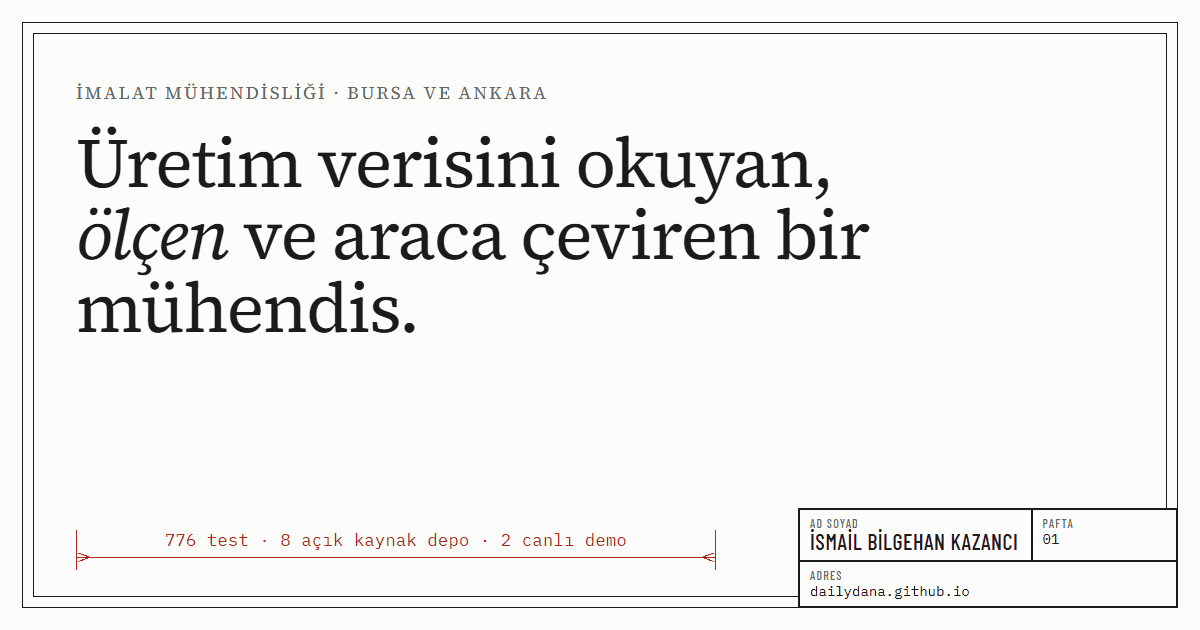
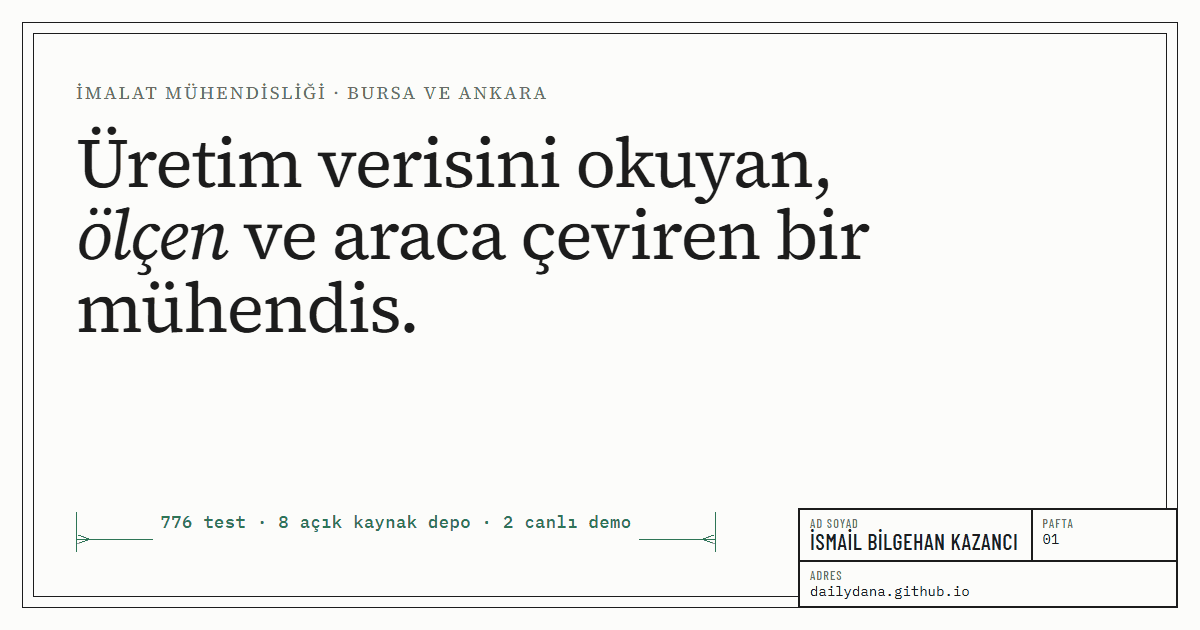
İlk ekran yeşil (--draft), CAD imleci; 404 ve Cpk uyarısı kırmızı kalıyor
Artı çizgileri, imleç çevresinde milimetrik ızgara, bölge+koordinat okuması ve kenar bölge etiketinin vurgulanması; yalnız fareli cihazlarda ve hareketi azalt kapalıyken. Favicon çizgisi ve OG görselleri yeşile uyarlandı.

diff --git a/assets/css/style.css b/assets/css/style.css
@@ -56,7 +56,8 @@
   --mute: #6B6B68;
   --line: rgba(28, 28, 28, .14);
   --line-strong: rgba(28, 28, 28, .75);
-  --accent: #C8102E;          /* teknik resim kırmızısı: yalnız hero'daki ölçü çizgisi */
+  --accent: #C8102E;          /* uyarı kırmızısı: 404 ve Cpk "yetersiz" */
+  --draft: #2E7556;           /* pafta çizim rengi: ilk ekrandaki ölçü çizgisi, eksenler, CAD imleci */
   --accent-ink: #FFFFFF;
   --accent-soft: rgba(200, 16, 46, .07);
   --link: #2F5D50;            /* editoryal vurgu: bağlantılar ve italik */
@@ -89,6 +90,7 @@
   --line: rgba(236, 234, 228, .14);
   --line-strong: rgba(236, 234, 228, .7);
   --accent: #F0707A;
+  --draft: #86C9AC;
   --accent-ink: #141414;
   --accent-soft: rgba(240, 112, 122, .1);
   --link: #8FC4B3;
@@ -220,18 +222,18 @@ code { font-family: var(--mono); font-size: .8em; }
 /* ölçü çizgisi */
 .dimline {
   position: relative; height: 34px; margin-bottom: 18px; max-width: 700px;
-  border-left: .75px solid var(--accent); border-right: .75px solid var(--accent);
-  color: var(--accent); font: 500 13px/1 var(--mono); letter-spacing: .5px;
+  border-left: .75px solid var(--draft); border-right: .75px solid var(--draft);
+  color: var(--draft); font: 500 13px/1 var(--mono); letter-spacing: .5px;
   display: flex; justify-content: center;
 }
-.dimline::before { content: ''; position: absolute; left: 0; right: 0; top: 22px; height: .75px; background: var(--accent); }
+.dimline::before { content: ''; position: absolute; left: 0; right: 0; top: 22px; height: .75px; background: var(--draft); }
 .dimline::after {
   content: ''; position: absolute; left: 0; right: 0; top: 18px; height: 9px;
   background:
-    linear-gradient(to top right, transparent 48%, var(--accent) 50%, var(--accent) 60%, transparent 62%) left top / 12px 4.5px no-repeat,
-    linear-gradient(to bottom right, transparent 48%, var(--accent) 50%, var(--accent) 60%, transparent 62%) left bottom / 12px 4.5px no-repeat,
-    linear-gradient(to top left, transparent 48%, var(--accent) 50%, var(--accent) 60%, transparent 62%) right top / 12px 4.5px no-repeat,
-    linear-gradient(to bottom left, transparent 48%, var(--accent) 50%, var(--accent) 60%, transparent 62%) right bottom / 12px 4.5px no-repeat;
+    linear-gradient(to top right, transparent 48%, var(--draft) 50%, var(--draft) 60%, transparent 62%) left top / 12px 4.5px no-repeat,
+    linear-gradient(to bottom right, transparent 48%, var(--draft) 50%, var(--draft) 60%, transparent 62%) left bottom / 12px 4.5px no-repeat,
+    linear-gradient(to top left, transparent 48%, var(--draft) 50%, var(--draft) 60%, transparent 62%) right top / 12px 4.5px no-repeat,
+    linear-gradient(to bottom left, transparent 48%, var(--draft) 50%, var(--draft) 60%, transparent 62%) right bottom / 12px 4.5px no-repeat;
 }
 .dimline span { position: relative; z-index: 1; background: var(--bg); padding: 0 8px; margin-top: 2px; white-space: nowrap; }
 /* görünüş (portre) */
@@ -239,13 +241,44 @@ code { font-family: var(--mono); font-size: .8em; }
 .view-frame { position: relative; aspect-ratio: 4 / 5; border: .75px solid var(--ink); background: var(--bg); overflow: hidden; }
 .view-frame img { position: absolute; inset: 0; width: 100%; height: 100%; object-fit: cover; }
 .view-ph { position: absolute; inset: 0; display: flex; align-items: center; justify-content: center; }
-.view-ph::before, .view-ph::after { content: ''; position: absolute; background: var(--accent); }
-.view-ph::before { left: 50%; top: 10%; bottom: 10%; width: 1px; background: repeating-linear-gradient(to bottom, var(--accent) 0 14px, transparent 14px 18px, var(--accent) 18px 20px, transparent 20px 24px); }
-.view-ph::after { top: 50%; left: 10%; right: 10%; height: 1px; background: repeating-linear-gradient(to right, var(--accent) 0 14px, transparent 14px 18px, var(--accent) 18px 20px, transparent 20px 24px); }
+.view-ph::before, .view-ph::after { content: ''; position: absolute; background: var(--draft); }
+.view-ph::before { left: 50%; top: 10%; bottom: 10%; width: 1px; background: repeating-linear-gradient(to bottom, var(--draft) 0 14px, transparent 14px 18px, var(--draft) 18px 20px, transparent 20px 24px); }
+.view-ph::after { top: 50%; left: 10%; right: 10%; height: 1px; background: repeating-linear-gradient(to right, var(--draft) 0 14px, transparent 14px 18px, var(--draft) 18px 20px, transparent 20px 24px); }
 .view-ph span { position: relative; z-index: 1; font: 500 40px/1 var(--cond); letter-spacing: 2px; background: var(--bg); padding: 4px 12px; }
 .view:has(img) .view-ph { display: none; }
 .view-cap { margin-top: 10px; text-align: center; font: 500 12px var(--mono); letter-spacing: 1px; }
 .view-cap b { font-weight: 500; text-decoration: underline; text-underline-offset: 3px; }
+/* CAD imleci: artı çizgileri, imleç çevresinde milimetrik ızgara, konum okuması, bölge vurgusu */
+.sheet-hero.has-cad { cursor: crosshair; }
+.sheet-hero.has-cad a, .sheet-hero.has-cad button { cursor: pointer; }
+.cad { position: absolute; inset: 14px; overflow: hidden; opacity: 0; transition: opacity .25s ease; }
+.sheet-hero.is-cad .cad { opacity: 1; }
+.cad-grid {
+  position: absolute; inset: 0;
+  background-image:
+    linear-gradient(color-mix(in srgb, var(--draft) 45%, transparent) 1px, transparent 1px),
+    linear-gradient(90deg, color-mix(in srgb, var(--draft) 45%, transparent) 1px, transparent 1px),
+    linear-gradient(color-mix(in srgb, var(--draft) 18%, transparent) 1px, transparent 1px),
+    linear-gradient(90deg, color-mix(in srgb, var(--draft) 18%, transparent) 1px, transparent 1px);
+  background-size: 100px 100px, 100px 100px, 20px 20px, 20px 20px;
+  -webkit-mask-image: radial-gradient(circle 200px at var(--mx, -999px) var(--my, -999px), var(--ink), transparent 100%);
+  mask-image: radial-gradient(circle 200px at var(--mx, -999px) var(--my, -999px), var(--ink), transparent 100%);
+}
+.cad-x, .cad-y { position: absolute; background: var(--draft); opacity: .6; }
+.cad-x { left: 0; right: 0; height: 1px; top: var(--my, -10px); }
+.cad-y { top: 0; bottom: 0; width: 1px; left: var(--mx, -10px); }
+/* okuma kutusu içerikten sonra gelir: yazının ve antetin üstünde kalır */
+.cad-read {
+  position: absolute; z-index: 5; left: var(--hx, -999px); top: var(--hy, -999px); transform: translate(12px, 10px);
+  opacity: 0; transition: opacity .2s ease; pointer-events: none;
+  font: 500 11px/1 var(--mono); letter-spacing: .5px; color: var(--draft); background: var(--bg);
+  border: 1px solid var(--draft); padding: 4px 6px; white-space: nowrap;
+}
+.sheet-hero.is-cad .cad-read { opacity: 1; }
+.cad-read.is-flip { transform: translate(calc(-100% - 12px), 10px); }
+.sheet-top i, .sheet-left i { transition: color .15s ease, background .15s ease; }
+.sheet-top i.is-on, .sheet-left i.is-on { color: var(--draft); background: color-mix(in srgb, var(--draft) 12%, transparent); }
+
 /* antet */
 .titleblock {
   position: absolute; right: calc(var(--sheet) + 14px); bottom: calc(var(--sheet) + 14px); width: 580px;
@@ -257,7 +290,7 @@ code { font-family: var(--mono); font-size: .8em; }
 .titleblock .wide { grid-column: span 2; }
 .titleblock .tb-name { font: 500 18px/1.1 var(--cond); letter-spacing: .5px; }
 .titleblock a { text-decoration: underline; text-underline-offset: 2px; }
-.titleblock a:hover { color: var(--accent); }
+.titleblock a:hover { color: var(--draft); }
 
 /* ---------- hakkımda ---------- */
 .about-grid { display: grid; grid-template-columns: 1fr 1.15fr; gap: 72px; align-items: start; }

diff --git a/assets/js/main.js b/assets/js/main.js
@@ -316,6 +316,43 @@
     dlg.addEventListener('close', () => { img.removeAttribute('src'); });
   });
 
+  /* ---------- ilk ekran: CAD imleci (artı çizgileri, konum okuması, bölge vurgusu) ---------- */
+  safe('cad', () => {
+    const hero = $('.sheet-hero'), cad = $('.cad', hero || undefined);
+    if (!hero || !cad || reduceMotion || !window.matchMedia('(hover: hover) and (pointer: fine)').matches) return;
+    const read = $('.cad-read', hero);
+    const cols = $$('.sheet-top i', hero), rows = $$('.sheet-left i', hero);
+    let raf = 0, x = 0, y = 0, lastC = -1, lastR = -1;
+    hero.classList.add('has-cad');
+    const paint = () => {
+      raf = 0;
+      const r = cad.getBoundingClientRect();
+      const cx = x - r.left, cy = y - r.top;
+      const inside = cx >= 0 && cy >= 0 && cx <= r.width && cy <= r.height;
+      hero.classList.toggle('is-cad', inside);
+      if (!inside) return;
+      cad.style.setProperty('--mx', `${cx}px`);
+      cad.style.setProperty('--my', `${cy}px`);
+      const h = hero.getBoundingClientRect();
+      hero.style.setProperty('--hx', `${x - h.left}px`);
+      hero.style.setProperty('--hy', `${y - h.top}px`);
+      const c = Math.min(cols.length - 1, Math.floor(cx / r.width * cols.length));
+      const rw = Math.min(rows.length - 1, Math.floor(cy / r.height * rows.length));
+      if (c !== lastC) { cols[lastC]?.classList.remove('is-on'); cols[c]?.classList.add('is-on'); lastC = c; }
+      if (rw !== lastR) { rows[lastR]?.classList.remove('is-on'); rows[rw]?.classList.add('is-on'); lastR = rw; }
+      if (read) {
+        const zone = `${rows[rw]?.textContent || ''}${cols[c]?.textContent || ''}`;
+        read.textContent = `${zone} · X ${String(Math.round(cx)).padStart(4, '0')} Y ${String(Math.round(cy)).padStart(4, '0')}`;
+        read.classList.toggle('is-flip', cx > r.width - 190);
+      }
+    };
+    hero.addEventListener('pointermove', e => { x = e.clientX; y = e.clientY; if (!raf) raf = requestAnimationFrame(paint); });
+    hero.addEventListener('pointerleave', () => {
+      hero.classList.remove('is-cad');
+      cols[lastC]?.classList.remove('is-on'); rows[lastR]?.classList.remove('is-on'); lastC = lastR = -1;
+    });
+  });
+
   /* ---------- Cpk hesaplayıcı ---------- */
   safe('cpk', () => {
     const box = $('#cpk');

diff --git a/index.html b/index.html
@@ -88,7 +88,7 @@
 
   <!-- ===== İlk ekran: teknik resim paftası ===== -->
   <section class="sheet-hero" id="hero">
-    <div class="sheet-frame" aria-hidden="true"><div class="sheet-top"><i>1</i><i>2</i><i>3</i><i>4</i><i>5</i><i>6</i><i>7</i><i>8</i></div><div class="sheet-left"><i>A</i><i>B</i><i>C</i><i>D</i><i>E</i></div></div>
+    <div class="sheet-frame" aria-hidden="true"><div class="sheet-top"><i>1</i><i>2</i><i>3</i><i>4</i><i>5</i><i>6</i><i>7</i><i>8</i></div><div class="sheet-left"><i>A</i><i>B</i><i>C</i><i>D</i><i>E</i></div><div class="cad"><div class="cad-grid"></div><i class="cad-x"></i><i class="cad-y"></i></div></div>
     <div class="wrap sheet-grid">
       <div>
         <div class="dimline" aria-label="Özet sayılar" data-aria="aria.metrics"><span><span data-lang="tr">776 TEST · 8 AÇIK KAYNAK DEPO · 2 CANLI DEMO</span><span data-lang="en">776 TESTS · 8 OPEN-SOURCE REPOS · 2 LIVE DEMOS</span></span></div>
@@ -120,6 +120,7 @@
       <div><small>LINKEDIN</small><a href="https://www.linkedin.com/in/ismailbilgehankazanci" target="_blank" rel="noopener">ismailbilgehankazanci</a></div>
       <div><small>REV.</small>2026-09</div>
     </div>
+    <span class="cad-read" aria-hidden="true"></span>
   </section>
 
   <!-- ===== A · Hakkımda ===== -->

diff --git a/404.html b/404.html
@@ -12,6 +12,8 @@
   <!-- Kök-göreli yol: 404 hangi klasör derinliğinde açılırsa açılsın stil yüklenir -->
   <link rel="stylesheet" href="/assets/css/style.css">
   <style>
+    /* 404 bir hata: pafta çizgileri burada kırmızı */
+    .nf { --draft: var(--accent); }
     .nf { min-height: 100svh; padding: var(--sheet) 0; display: flex; }
     .nf .sheet-hero { flex: 1; min-height: 0; padding: 72px 0 calc(var(--sheet) + 150px); }
     .nf .sheet-frame { inset: 0 var(--sheet); }
